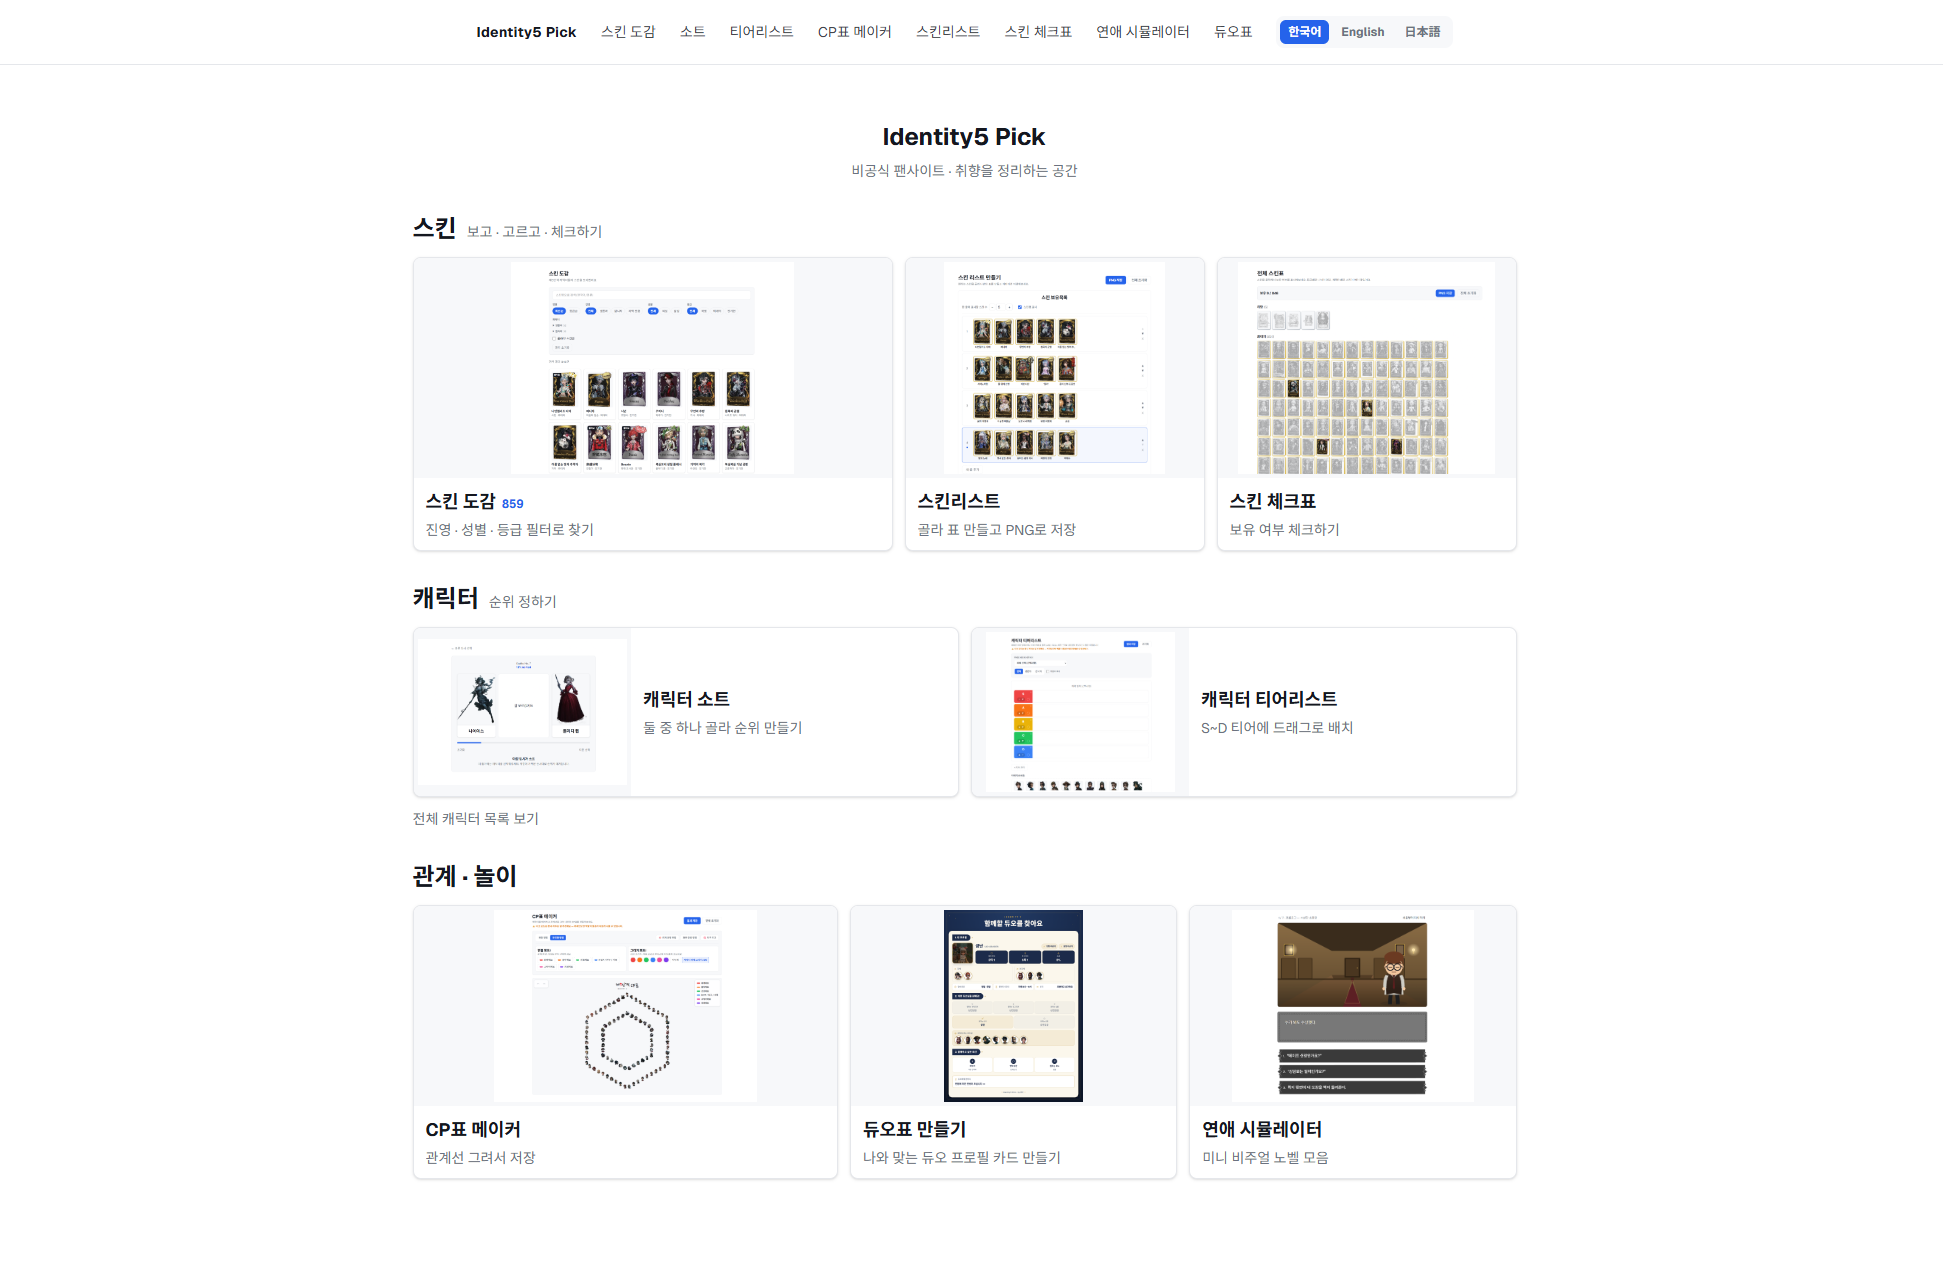
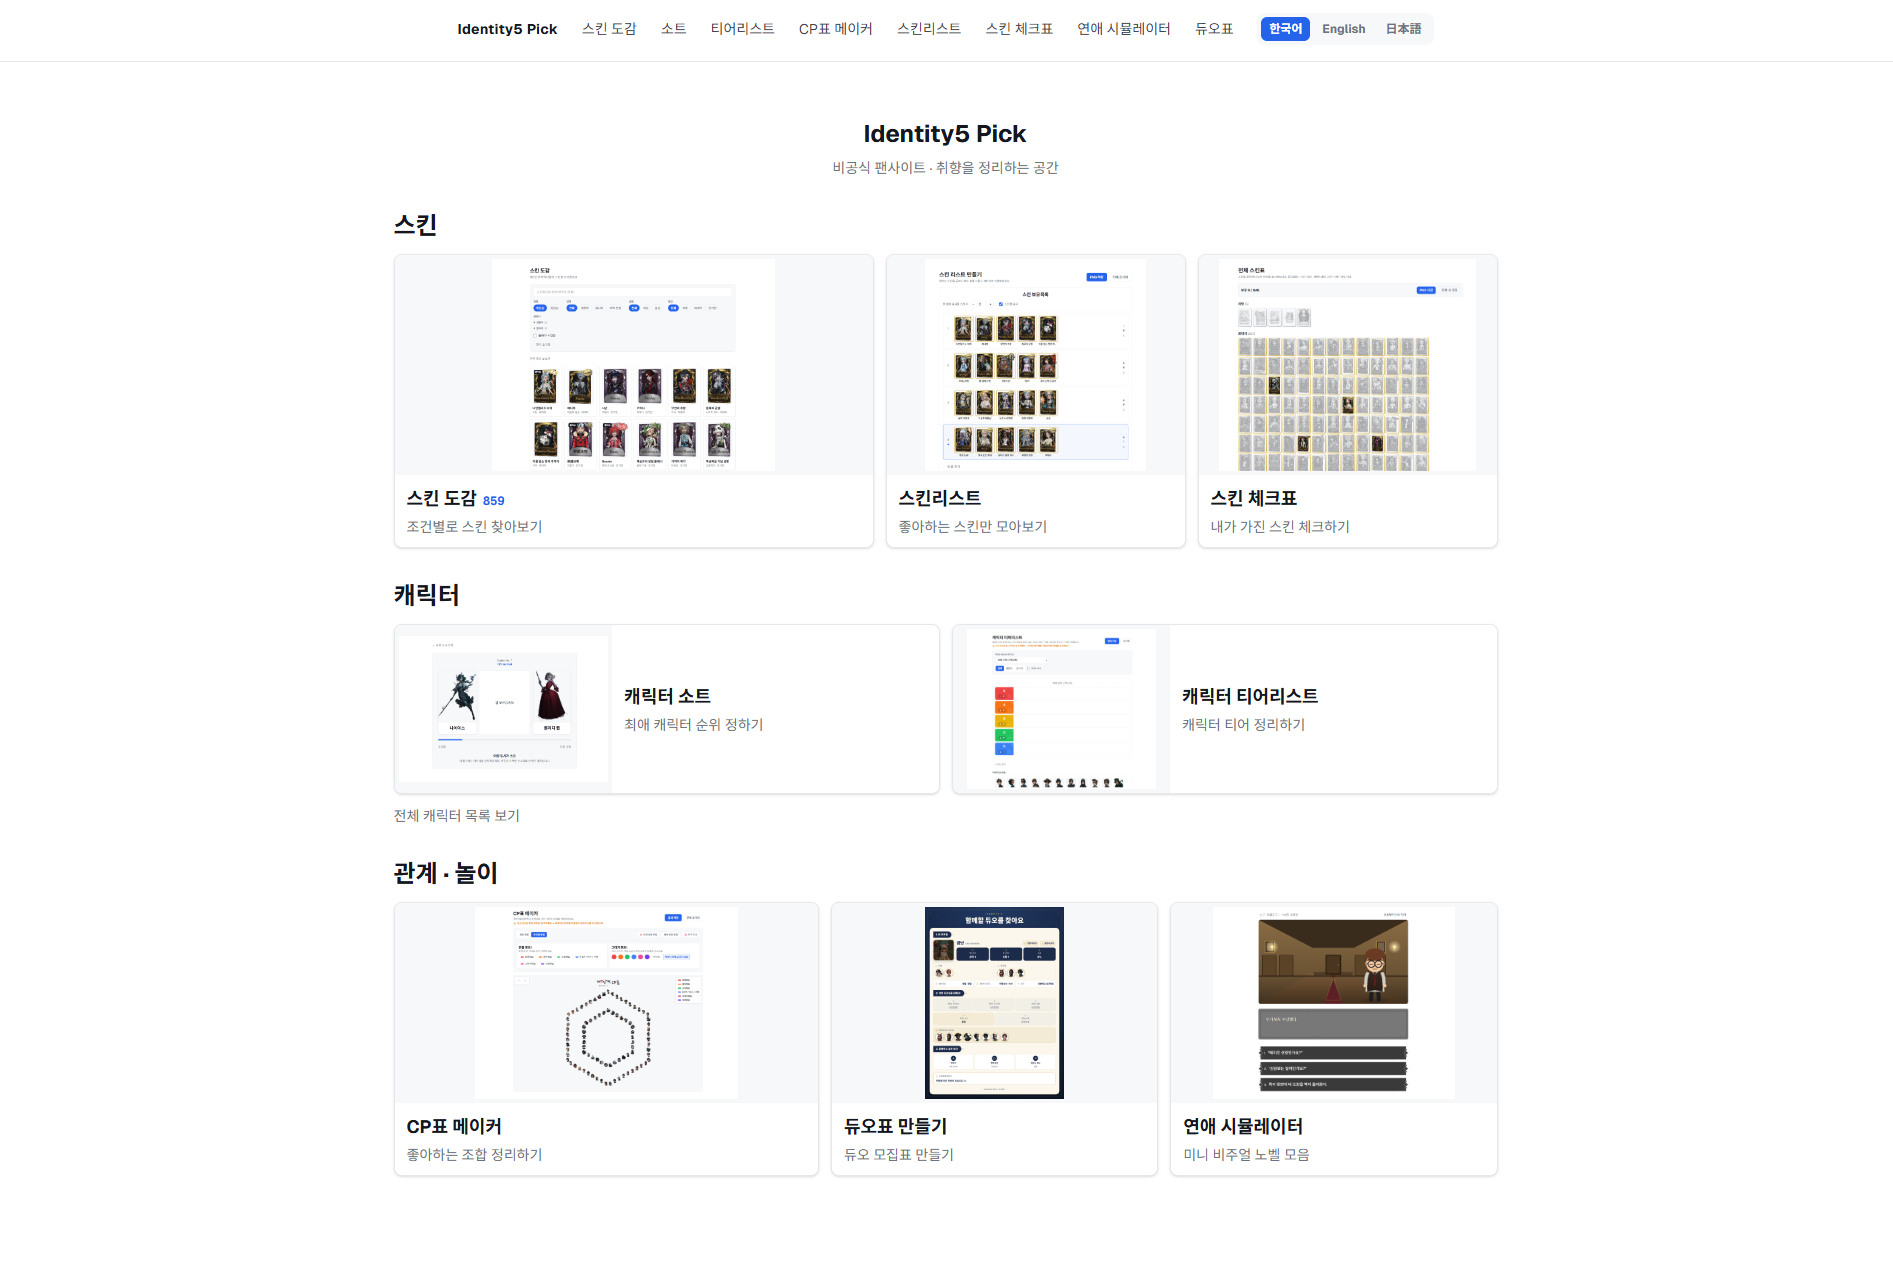
Home: size Operating Cases thumbnails to the tallest shot in each row
The three evidence screenshots per project sit in equal-width grid
columns, so give them a shared box instead of an arbitrary fixed height:
compute the aspect ratio of whichever shot is tallest at that width and
apply it to the whole row via a runtime `style` (Placeholder now treats
style.aspectRatio/height the same as a Tailwind h-* class). That shot
fills its box exactly with zero letterbox; the wider ones stay full-width
and only pick up the vertical padding they actually need — no more
side-cropping, no more arbitrary empty margin.

Placeholder also gains a `fit` prop ("cover" default, unchanged
everywhere else; "contain" here) so this row can show full images without
touching any other page's crop behavior.

diff --git a/src/app/[locale]/page.tsx b/src/app/[locale]/page.tsx
@@ -84,6 +84,17 @@ function ProjectSection({
   const hero = CARD_SHOTS[p.slug];
   const L = PAR_LABELS[locale];
   const liveHost = p.liveUrl?.replace(/^https?:\/\//, "");
+
+  // Operating-case thumbnails sit in equal-width grid columns, so give them
+  // all the same box: the aspect ratio of whichever shot is tallest at that
+  // shared width. That one fills the box exactly (no letterbox); the wider
+  // ones stay full-width and pick up only the letterbox they actually need.
+  const rowShots = shots.filter(Boolean);
+  const tallestShot = rowShots.reduce(
+    (tallest, s) => (s.w / s.h < tallest.w / tallest.h ? s : tallest),
+    rowShots[0]
+  );
+  const caseRowStyle = tallestShot ? { aspectRatio: `${tallestShot.w} / ${tallestShot.h}` } : undefined;
   return (
     <section className={`border-t border-line px-5 py-14 sm:px-9 sm:py-20 ${alt ? "bg-bg-alt" : ""}`}>
       <div className="mx-auto max-w-[1440px]">
@@ -220,7 +231,14 @@ function ProjectSection({
                 className="flex flex-col overflow-hidden rounded-2xl border border-line-2 bg-bg"
               >
                 {shots[i] && (
-                  <Placeholder variant="alt" label={c.title} img={shots[i]} className="h-[190px] border-0! rounded-none!" />
+                  <Placeholder
+                    variant="alt"
+                    label={c.title}
+                    img={shots[i]}
+                    fit="contain"
+                    style={caseRowStyle}
+                    className="border-0! rounded-none!"
+                  />
                 )}
                 <div className="flex flex-1 flex-col px-5 py-5">
                   <div className="font-archivo text-[11.5px] font-semibold tracking-[.13em] text-muted-light">

diff --git a/src/components/Placeholder.tsx b/src/components/Placeholder.tsx
@@ -46,6 +46,7 @@ export function Placeholder({
   style,
   href,
   img,
+  fit = "cover",
 }: {
   label: ReactNode;
   variant?: "light" | "alt" | "dark";
@@ -55,6 +56,8 @@ export function Placeholder({
   href?: string;
   /** when set, renders the real screenshot */
   img?: Shot;
+  /** only applies in the fixed-height box: "cover" crops to fill (default), "contain" always shows the whole image width, letterboxing top/bottom instead of cropping the sides */
+  fit?: "cover" | "contain";
 }) {
   if (img) {
     const alt = typeof label === "string" ? label : "";
@@ -66,12 +69,14 @@ export function Placeholder({
     ) : null;
 
     let content: ReactNode;
+    const hasRuntimeHeight = Boolean(style?.height || style?.aspectRatio);
 
-    if (HAS_HEIGHT.test(className)) {
+    if (HAS_HEIGHT.test(className) || hasRuntimeHeight) {
       // Fixed-height box so a row/column of shots lines up — cover-crop on
       // wide screens. Below 900px (where these layouts stack to one column)
       // the box collapses to h-auto and the image flows at its natural ratio,
       // so nothing is cropped on mobile.
+      const fitClass = fit === "contain" ? "object-contain" : "object-cover object-top";
       content = (
         <span
           style={style}
@@ -82,7 +87,7 @@ export function Placeholder({
             alt={alt}
             fill
             sizes="(max-width: 900px) 100vw, 640px"
-            className={`object-cover object-top max-[900px]:static! max-[900px]:h-auto! max-[900px]:w-full!${hover}`}
+            className={`${fitClass} max-[900px]:static! max-[900px]:h-auto! max-[900px]:w-full!${hover}`}
           />
           {ring}
         </span>
